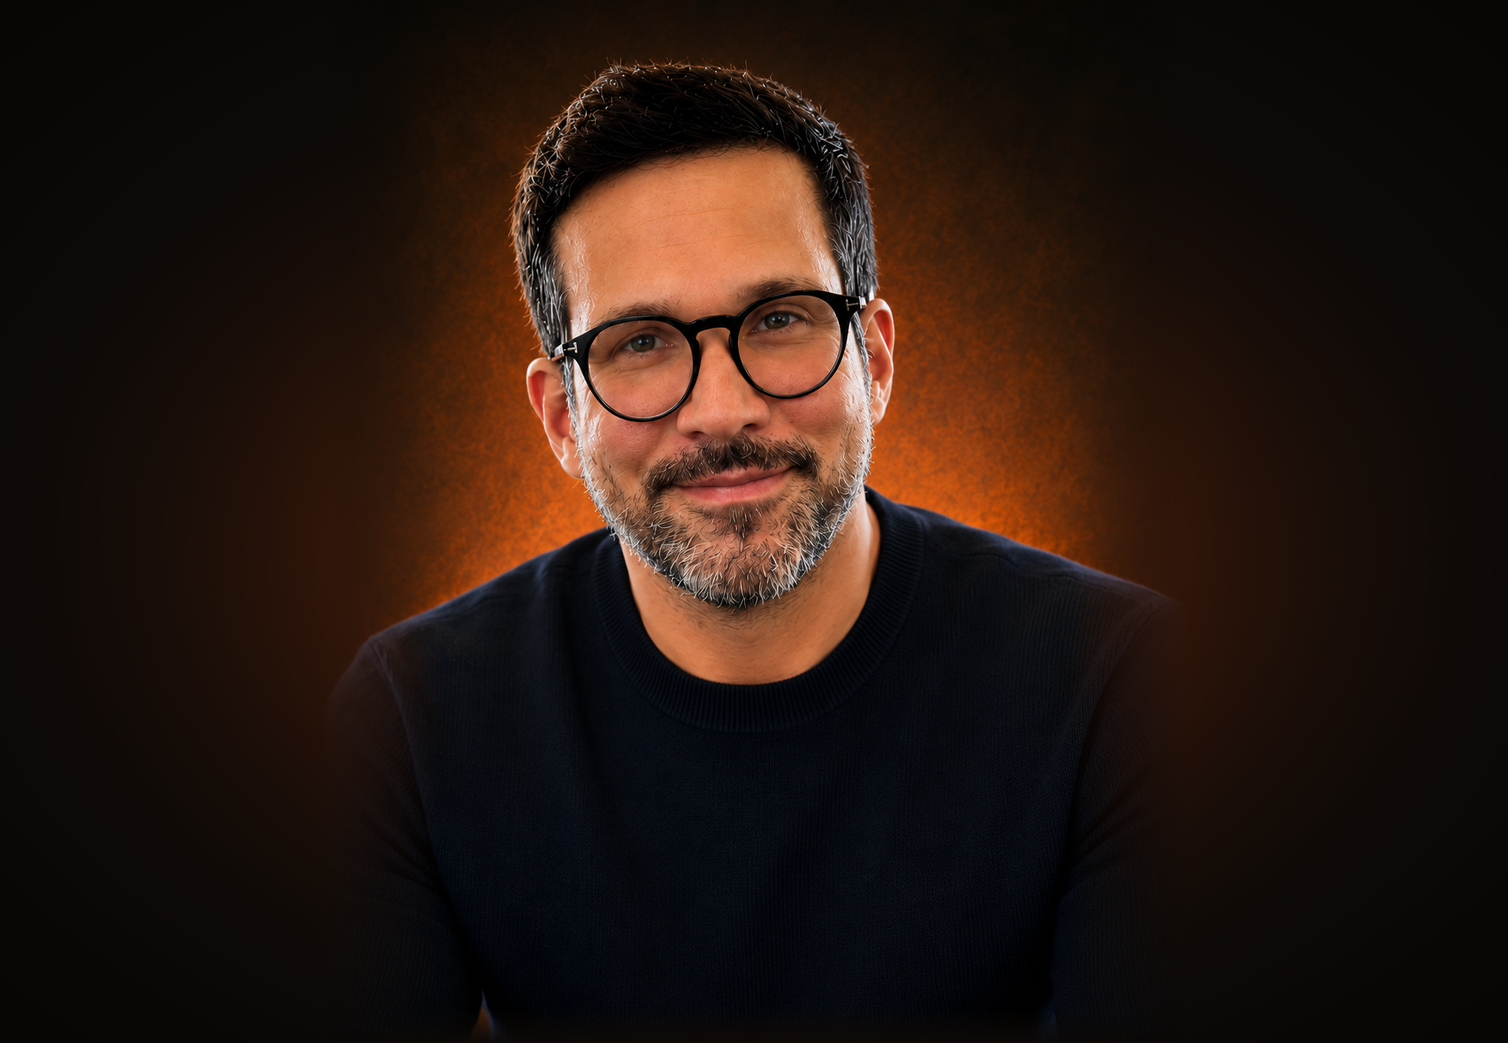
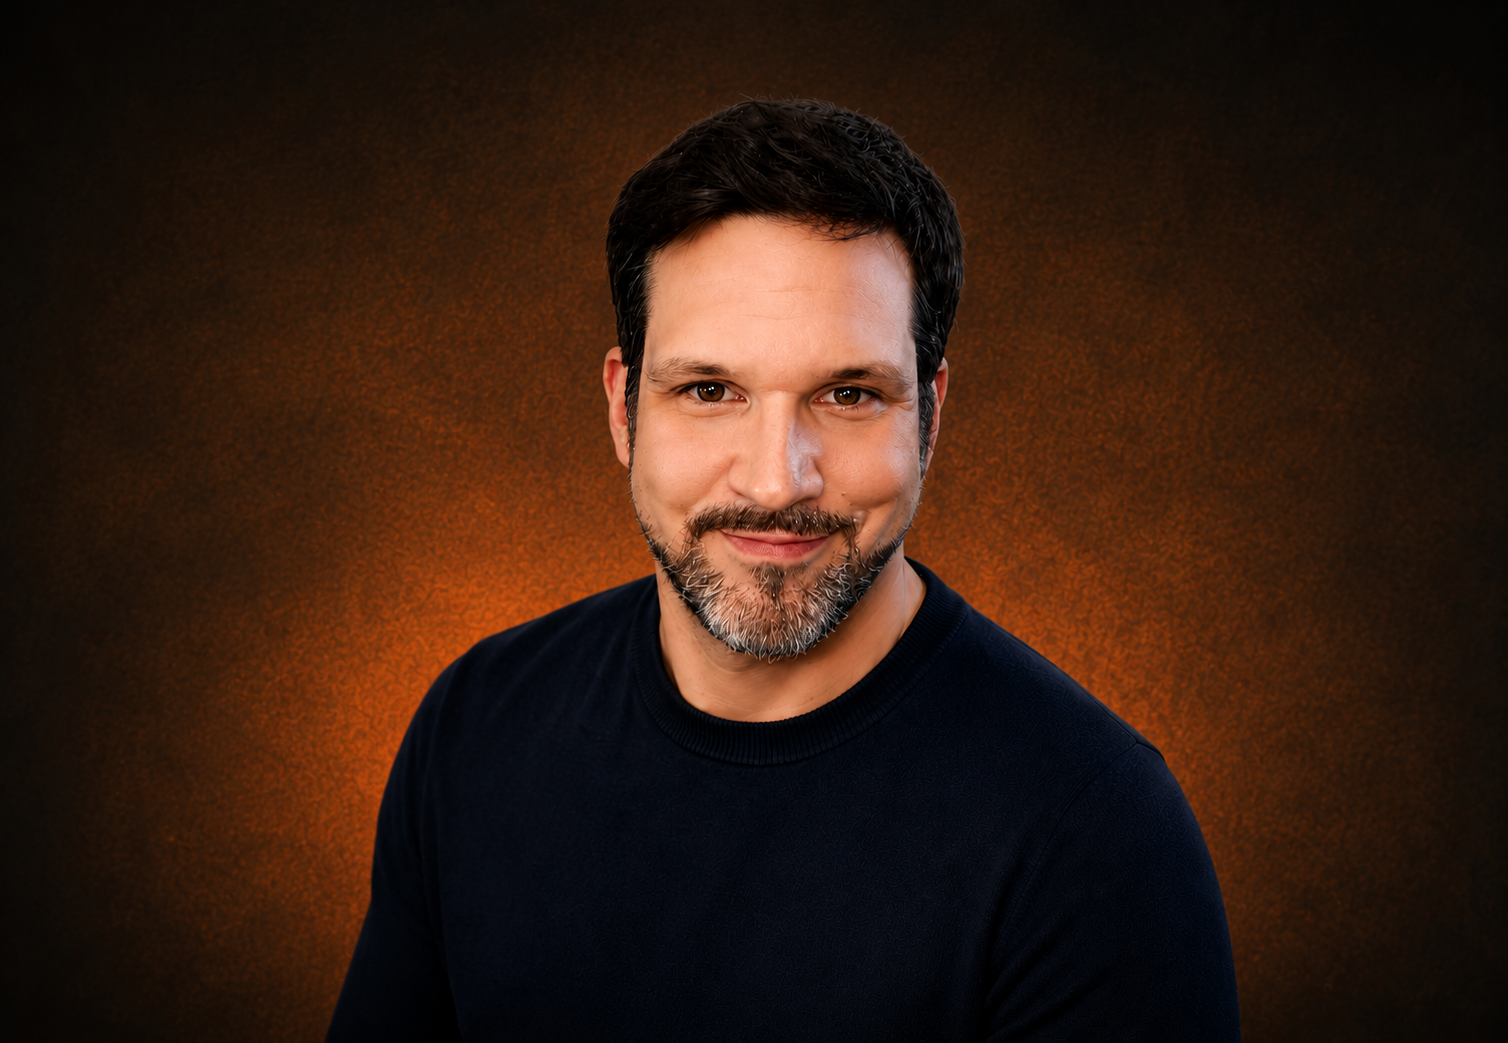
Update site to Simplaro 2.0 draft

diff --git a/site/ui_kits/website/dsgvo-siegel.jsx b/site/ui_kits/website/dsgvo-siegel.jsx
@@ -1,12 +1,12 @@
-/* DSG-Siegel: zertifikatartiger Sticker im Simplaro-Look.
-   Kreis mit Comic-Rand, umlaufender Schrift und ✓/DSG/KONFORM im Zentrum.
+/* DSGVO-Siegel: zertifikatartiger Sticker im Simplaro-Look.
+   Kreis mit Comic-Rand, umlaufender Schrift und ✓/DSGVO/KONFORM im Zentrum.
    Verlinkt aufs Datenschutzversprechen (#datenschutz). */
 function DsgvoSiegel({ size = 132, rotate = -8, href = '#datenschutz', className, style }) {
   const pid = React.useMemo(() => 'siegel-ring-' + Math.random().toString(36).slice(2, 8), []);
   return (
     <a
       href={href}
-      aria-label="DSG-konform — zu unserem Datenschutzversprechen"
+      aria-label="DSGVO-konform — zu unserem Datenschutzversprechen"
       className={'dsgvo-siegel' + (className ? ' ' + className : '')}
       style={{ display: 'inline-flex', width: size, height: size, textDecoration: 'none', flex: 'none', alignSelf: 'flex-start', ...style }}
     >
@@ -20,7 +20,7 @@ function DsgvoSiegel({ size = 132, rotate = -8, href = '#datenschutz', className
           <textPath href={'#' + pid} startOffset="25%" textAnchor="middle">✦ SCHWEIZER DATENSCHUTZ ✦</textPath>
         </text>
         <text x="66" y="54" textAnchor="middle" fill="var(--terra-500)" style={{ fontFamily: 'var(--font-sans)', fontSize: '20px', fontWeight: 700 }}>✓</text>
-        <text x="66" y="77" textAnchor="middle" fill="var(--ink-900)" style={{ fontFamily: 'var(--font-sans)', fontSize: '24px', fontWeight: 700, letterSpacing: '1.5px' }}>DSG</text>
+        <text x="66" y="77" textAnchor="middle" fill="var(--ink-900)" style={{ fontFamily: 'var(--font-sans)', fontSize: '19px', fontWeight: 700, letterSpacing: '0.5px' }}>DSGVO</text>
         <text x="65" y="92" textAnchor="middle" fill="var(--terra-600)" style={{ fontFamily: 'var(--font-sans)', fontSize: '10px', fontWeight: 700, letterSpacing: '3px' }}>KONFORM</text>
         <text x="66" y="113" textAnchor="middle" fill="var(--terra-500)" style={{ fontFamily: 'var(--font-sans)', fontSize: '10px' }}>✦</text>
       </svg>

diff --git a/site/ui_kits/website/index.html b/site/ui_kits/website/index.html
@@ -15,14 +15,14 @@
 <script src="https://unpkg.com/react@18.3.1/umd/react.development.js" integrity="sha384-hD6/rw4ppMLGNu3tX5cjIb+uRZ7UkRJ6BPkLpg4hAu/6onKUg4lLsHAs9EBPT82L" crossorigin="anonymous"></script>
 <script src="https://unpkg.com/react-dom@18.3.1/umd/react-dom.development.js" integrity="sha384-u6aeetuaXnQ38mYT8rp6sbXaQe3NL9t+IBXmnYxwkUI2Hw4bsp2Wvmx4yRQF1uAm" crossorigin="anonymous"></script>
 <script src="https://unpkg.com/@babel/standalone@7.29.0/babel.min.js" integrity="sha384-m08KidiNqLdpJqLq95G/LEi8Qvjl/xUYll3QILypMoQ65QorJ9Lvtp2RXYGBFj1y" crossorigin="anonymous"></script>
-<script src="../../_ds_bundle.js?v=20260718-andre-portrait"></script>
+<script src="../../_ds_bundle.js?v=20260718-hero-headline-kmu-final"></script>
 </head>
 <body style="margin: 0;">
 <div id="root"></div>
-<script type="text/babel" src="dsgvo-siegel.jsx?v=20260718-dsg-siegel"></script>
+<script type="text/babel" src="dsgvo-siegel.jsx?v=20260716-quote-clean-centered"></script>
 <script type="text/babel" src="sections-hero.jsx?v=20260718-hero-headline-kmu-final"></script>
 <script type="text/babel" src="sections-main.jsx?v=20260718-vertrauen"></script>
-<script type="text/babel" src="sections-lower.jsx?v=20260718-andre-portrait"></script>
+<script type="text/babel" src="sections-lower.jsx?v=20260718-team-images"></script>
 <script type="text/babel" src="chat-widget.jsx?v=20260718-chat-fab-sand"></script>
 <script type="text/babel" src="mobile-nav.jsx?v=20260716-quote-clean-centered"></script>
 <script type="text/babel" src="tweaks-panel.jsx?v=20260716-quote-clean-centered"></script>

diff --git a/site/ui_kits/website/sections-lower.jsx b/site/ui_kits/website/sections-lower.jsx
@@ -46,7 +46,7 @@ function UeberUns() {
           <p style={{ margin: 0, fontSize: 16.5, lineHeight: 1.7, color: 'var(--text-body)' }}>Simplaro ist ein Schweizer Unternehmen aus Zürich. Wir verbinden unternehmerische Praxis, menschliche Werte und moderne Technologie zu einem ganzheitlichen Ansatz – und begleiten KMU persönlich, vor Ort und auf Augenhöhe.</p>
         </div>
         <div style={{ display: 'grid', gridTemplateColumns: 'repeat(auto-fit, minmax(min(420px, 100%), 1fr))', gap: 22, alignItems: 'stretch' }}>
-          <TeamCard src="../../assets/andre-ulrich-team.png?v=20260718-andre-portrait" alt="Porträt von André Ulrich" name="André Ulrich" role="Mitgründer · KMU-Experte" />
+          <TeamCard src="../../assets/andre-ulrich-team.png" alt="Porträt von André Ulrich" name="André Ulrich" role="Mitgründer · KMU-Experte" />
           <TeamCard src="../../assets/philip-krieger-team.png" alt="Porträt von Philip Krieger" name="Philip Krieger" role="Mitgründer · Coach" />
           <QuoteCard
             logoSrc="../../assets/logo-mark-terra-symbol-white.png"

diff --git a/site/ui_kits/website/mobile.css b/site/ui_kits/website/mobile.css
@@ -9,7 +9,7 @@
 .chat-fab-short { display: none; }
 .hero-stamp-mobile { display: none; }
 
-/* DSG-Siegel: federnder Hover-Lift; bei sehr flachen Fenstern kollidiert es mit dem Chat-Button → im Hero ausblenden (bleibt in der Datenschutz-Karte) */
+/* DSGVO-Siegel: federnder Hover-Lift; bei sehr flachen Fenstern kollidiert es mit dem Chat-Button → im Hero ausblenden (bleibt in der Datenschutz-Karte) */
 .dsgvo-siegel { transition: transform 0.4s var(--ease-spring); }
 .dsgvo-siegel:hover { transform: translateY(-5px); }
 @media (max-height: 640px) {

diff --git a/site/ui_kits/website/sections-hero.jsx b/site/ui_kits/website/sections-hero.jsx
@@ -35,7 +35,7 @@ function Hero({ tweaks }) {
         </div>
       </div>
 
-      {/* DSG-Siegel — Desktop/Tablet im Hero, mobil in der Datenschutz-Karte */}
+      {/* DSGVO-Siegel — Desktop/Tablet im Hero, mobil in der Datenschutz-Karte */}
       <DsgvoSiegel className="hero-siegel" style={{ position: 'absolute', zIndex: 36, right: '7vw', bottom: '12vh' }} />
 
       {/* Headline */}

diff --git a/site/_ds_bundle.js b/site/_ds_bundle.js
@@ -1951,7 +1951,7 @@ function UeberUns() {
       alignItems: 'stretch'
     }
   }, /*#__PURE__*/React.createElement(TeamCard, {
-    src: "../../assets/andre-ulrich-team.png?v=20260718-andre-portrait",
+    src: "../../assets/andre-ulrich-team.png",
     alt: "Portr\xE4t von Andr\xE9 Ulrich",
     name: "Andr\xE9 Ulrich",
     role: "Mitgr\xFCnder \xB7 KMU-Experte"

diff --git a/README.md b/README.md
@@ -2,7 +2,7 @@
 
 Website der Simplaro GmbH.
 
-Der aktuelle deploybare Stand liegt im Ordner `site/`. Er wurde am 20. Juli 2026 aus der neuesten lokalen Version `simplaro-design-system` übernommen.
+Der aktuelle deploybare Stand liegt im Ordner `site/`. Er wurde am 20. Juli 2026 aus dem ZIP `Simplaro 2.0.zip` übernommen.
 
 - `site/` - aktuelle Website inklusive Assets, UI-Kit-Dateien und `.htaccess`
 - `source.dc.html` - historischer Claude-Design-Export
